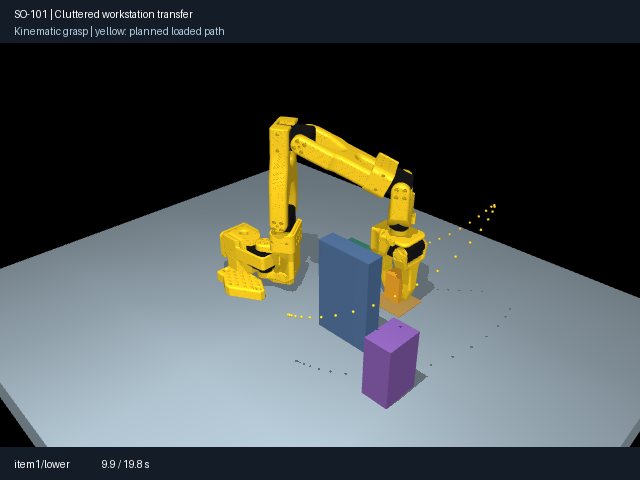
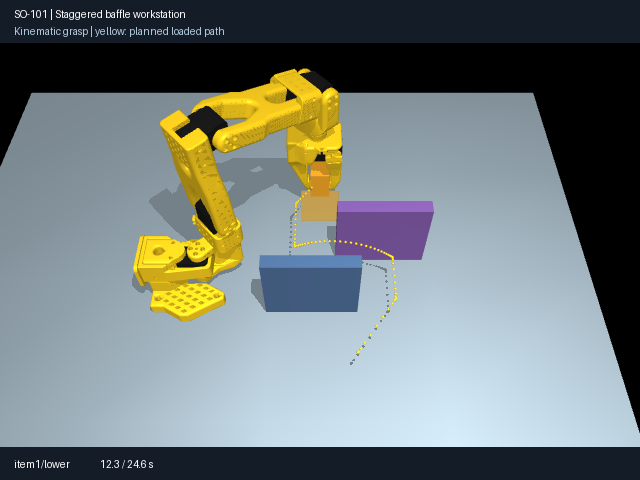
Differentiate single-divider detour from staggered-baffle S-route
Add configurable transfer passage waypoints and scene camera settings. Verify blocked direct connections and opposite-side baffle crossings below obstacle tops. Refresh animated demos and documentation.

diff --git a/src/so101/manipulation.py b/src/so101/manipulation.py
@@ -195,6 +195,7 @@ def _run_task(case, config_path, output_dir):
     allowed_grasp = {"gripper", "moving_jaw_so101_v1"}
     checks = 0
     planned_detours = []
+    transfer_routes = []
     grasp_records = []
 
     def pose(qtest, jaw):
@@ -284,7 +285,10 @@ def _run_task(case, config_path, output_dir):
             a, b, lambda x: pose(x, opening), max_joint_step=np.deg2rad(0.5)
         )
         if not all(edge(a, b) for a, b in pairwise(path)):
-            if stage.split("/")[-1] not in ("transfer", "return_home", "approach"):
+            if not (
+                stage.split("/")[-1] in ("transfer", "return_home", "approach")
+                or "transfer_via" in stage
+            ):
                 raise ValueError(f"{stage}: 直线动作被障碍阻挡")
             found = rrt_connect(
                 q,
@@ -398,6 +402,25 @@ def _run_task(case, config_path, output_dir):
         relative_position = R.T @ (objects[i] - data.site_xpos[site])
         relative_rotation = R.T.copy()
         move(prefix + "lift", [*grasp[:2], height])
+        via_points = scene.get("transfer_waypoints_m", [])
+        if via_points:
+            destination_q = solve_ik(model, data, addresses, [*place[:2], height], q)
+            direct = is_edge_valid(
+                q,
+                destination_q,
+                lambda x: pose(x, opening),
+                max_joint_step=np.deg2rad(0.5),
+            )
+            transfer_routes.append(
+                {
+                    "item": i,
+                    "direct_joint_connection_valid": bool(direct),
+                    "via_points_m": via_points,
+                }
+            )
+            pose(q, opening)
+        for k, via in enumerate(via_points):
+            move(prefix + f"transfer_via{k + 1}", via)
         move(prefix + "transfer", [*place[:2], height])
         move(prefix + "lower", place)
         # 记录释放时位姿，释放后保持在落点；不将物体瞬移到目标。
@@ -439,6 +462,7 @@ def _run_task(case, config_path, output_dir):
         "all_placed": bool(np.all(errors < 0.001)),
         "grasps": grasp_records,
         "planned_detours": planned_detours,
+        "transfer_routes": transfer_routes,
         "peak_joint_speed_rad_s": np.max(np.abs(speed), axis=0).tolist(),
         "peak_joint_acceleration_rad_s2": np.max(np.abs(accel), axis=0).tolist(),
         "max_deviation_from_straight_line_m": float(
@@ -468,7 +492,7 @@ def play_task(run_dir):
 
     root = Path(run_dir)
     report = json.loads((root / "result.json").read_text())
-    _, _, model, data, addresses, gripper = load_task(
+    _, scene, model, data, addresses, gripper = load_task(
         report["case"], root / "request.json"
     )
     with (
@@ -479,6 +503,11 @@ def play_task(run_dir):
         window.cam.distance = 0.75
         window.cam.azimuth = 135
         window.cam.elevation = -25
+        for key, value in scene.get("camera", {}).items():
+            if key == "lookat":
+                window.cam.lookat[:] = value
+            else:
+                setattr(window.cam, key, value)
         began = time.perf_counter()
         for t, q, jaw, positions, rotations in zip(
             track["times"],

diff --git a/tests/so101/test_manipulation.py b/tests/so101/test_manipulation.py
@@ -21,10 +21,8 @@ def test_manipulation_end_to_end(case, tmp_path):
     )
     assert report["all_placed"]
     if case in ("detour", "clutter"):
-        assert any(
-            x["stage"].endswith("transfer") and x["direct_blocked"]
-            for x in report["planned_detours"]
-        )
+        assert report["transfer_routes"]
+        assert not report["transfer_routes"][0]["direct_joint_connection_valid"]
     assert np.max(report["peak_joint_speed_rad_s"]) > 0
     assert np.all(
         np.array(report["peak_joint_speed_rad_s"])
@@ -85,6 +83,21 @@ def test_manipulation_end_to_end(case, tmp_path):
                 )
                 check_grasp(model, data, model.geom(f"payload_{i}").id)
 
+        if case in ("detour", "clutter"):
+            loaded = tr["object_positions"][
+                np.char.startswith(tr["stages"], "item1/transfer"), 0
+            ]
+            assert np.max(loaded[:, 2]) + 0.02 < 0.10  # 携物未越过挡板顶部
+            if case == "clutter":
+                first = loaded[np.abs(loaded[:, 1] + 0.035) < 0.003]
+                second = loaded[np.abs(loaded[:, 1] - 0.04) < 0.003]
+                assert len(first) > 0 and len(second) > 0
+                assert np.min(first[:, 0]) > 0.225 + 0.012
+                assert np.max(second[:, 0]) < 0.20 - 0.012
+            else:
+                crossing = loaded[np.abs(loaded[:, 1]) < 0.003]
+                assert len(crossing) > 0
+                assert np.min(crossing[:, 0]) > 0.23 + 0.012
         # 独立回放所有样本，确认机械臂对环境及自碰撞。
         for q, jaw, objects, quats in zip(
             tr["positions"],

diff --git a/src/so101/manipulation_media.py b/src/so101/manipulation_media.py
@@ -17,7 +17,7 @@ def export_task(run_dir, output_path=None, fps=12):
     report = json.loads((root / "result.json").read_text())
     if report["status"] != "success":
         raise ValueError("任务必须成功后再导出")
-    _, _, model, data, addresses, gripper = load_task(
+    _, scene, model, data, addresses, gripper = load_task(
         report["case"], root / "request.json"
     )
     target = Path(output_path or root / "demo.gif")
@@ -30,6 +30,11 @@ def export_task(run_dir, output_path=None, fps=12):
     camera.distance = 0.72
     camera.azimuth = 135
     camera.elevation = -30
+    for key, value in scene.get("camera", {}).items():
+        if key == "lookat":
+            camera.lookat[:] = value
+        else:
+            setattr(camera, key, value)
     frames = []
     with (
         np.load(root / "trajectory.npz", allow_pickle=False) as track,
@@ -53,9 +58,9 @@ def export_task(run_dir, output_path=None, fps=12):
             )
             renderer.update_scene(data, camera=camera)
             for part in range(track["object_positions"].shape[1]):
-                indices = np.flatnonzero(track["stages"] == f"item{part + 1}/transfer")[
-                    ::3
-                ]
+                indices = np.flatnonzero(
+                    np.char.startswith(track["stages"], f"item{part + 1}/transfer")
+                )[::3]
                 for point in track["object_positions"][indices, part]:
                     geom_id = renderer.scene.ngeom
                     if geom_id >= renderer.scene.maxgeom:

diff --git a/docs/so101/manipulation.md b/docs/so101/manipulation.md
@@ -9,8 +9,8 @@
 | `tabletop` | 将桌面方块从一侧搬到另一侧的色块目标区域 | 1 |
 | `barrier` | 抬高方块，跨过工作台隔挡后放置 | 1 |
 | `sorting` | 将两个不同颜色的方块依次搬入各自目标区域 | 2 |
-| `detour` | 直线路径被 13 cm 高隔挡阻断，携物绕行并规划空手返回 | 1 |
-| `clutter` | 高隔挡、设备盒及夹具组成的多障碍工作台 | 1 |
+| `detour` | 直线路径被 10 cm 高隔挡阻断，物块从单侧绕行 | 1 |
+| `clutter` | 两块左右交错的 10 cm 高挡板，形成 S 形搬运通道 | 1 |
 
 每个物料依次执行：接近 → 下降 → 闭合 → 抬升 → 转移 → 降低 → 张开 → 撤离。所有物料操作结束后返回初始工作位姿。
 
@@ -64,6 +64,8 @@ MUJOCO_GL=egl python examples/so101/manipulation.py --case barrier --check-only 
 | `velocity_limits_rad_s` | 五关节速度限制 |
 | `acceleration_limits_rad_s2` | 五关节加速度限制 |
 | `obstacles` | 实体隔挡等环境盒体 |
+| `transfer_waypoints_m` | 携物转移的通道引导点，逐段求逆运动学、规划并复核 |
+| `camera` | 场景视角；交错挡板场景采用俯视斜角展示完整通道 |
 
 SO-101 的朝下抓取工作空间受到腕关节限位约束。默认场景的目标位于基座前方约 0.16～0.21 m、左右约 0.10 m，转移高度为 0.085 m。修改坐标后通过 `--check-only` 检查可达性与碰撞。
 
@@ -95,3 +97,10 @@ PYTEST_DISABLE_PLUGIN_AUTOLOAD=1 python -m pytest tests/so101 -q
 ## 夹持修正记录
 
 初版以原模型 `gripperframe` 加世界坐标高度偏移确定物块位置；在原位置检测到固定指穿入约 6.3 mm、活动指间隙约 11.7 mm。操作模块改用 `graspframe`：夹爪连杆局部坐标 `[0.0041, 0, -0.087]` m，位于两指有效夹持段之间。物块中心直接作为抓取目标，结合分段指部碰撞形状与双侧接触检查，避免把偏离夹持区的物块直接绑定到工具。
+
+## 两种绕障场景的区别
+
+- `detour`：单块挡板在 x=0.17～0.23 m，物块经 x=0.275 m 一侧通过，完成一次侧向绕行。
+- `clutter`：第一块挡板在 y=-0.035 m、右端 x=0.225 m；第二块在 y=0.04 m、左端 x=0.20 m。物块先经 x=0.265 m 从第一块外侧通过，再移动到 x=0.15 m，从第二块内侧通过。
+
+两个场景的转移高度设为 0.055 m。测试同时检查物块顶部低于 0.10 m 的挡板顶部、穿越挡板所在截面时处于正确侧边，以及原始起终关节直连被阻断。通道引导点由场景配置指定，段内使用现有逆运动学与关节规划模块。结果中的 `transfer_routes` 保存直连有效性及引导点，`planned_detours` 保存触发 RRT 的路段。

diff --git a/README.md b/README.md
@@ -40,9 +40,9 @@ python examples/so101/manipulation.py --case clutter
 MUJOCO_GL=egl python examples/so101/manipulation.py --case barrier --check-only --export
 ```
 
-高隔挡与多障碍场景会阻断直线转移，调用 RRT-Connect 搜索携物路径和空手返回路径。黄色点线显示携物转移轨迹。
+高隔挡场景沿单块挡板的一侧绕行；多障碍场景使用两块交错挡板，物块先从外侧通过第一块，再切到内侧通过第二块，形成 S 形路线。通道引导点用于分段规划，携物高度保持在挡板顶部以下；各段执行碰撞复核，需要绕行时调用 RRT-Connect。黄色点线显示携物转移轨迹。
 
-| 高隔挡绕行 | 多障碍绕行 |
+| 高隔挡：单侧绕行 | 多障碍：S 形绕行 |
 | --- | --- |
 | ![高隔挡绕行](assets/manipulation/detour.gif) | ![多障碍工作台](assets/manipulation/clutter.gif) |
 
